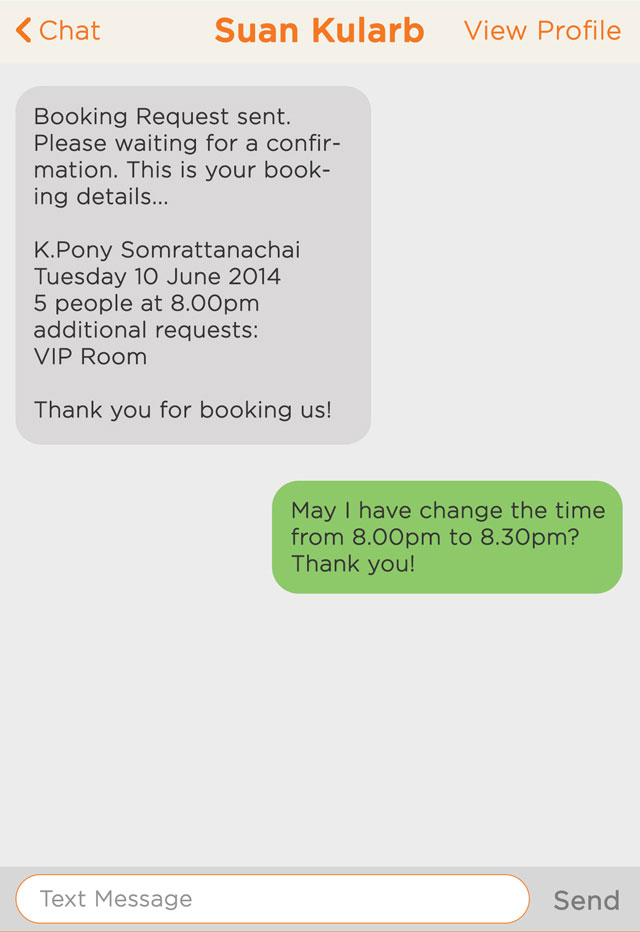
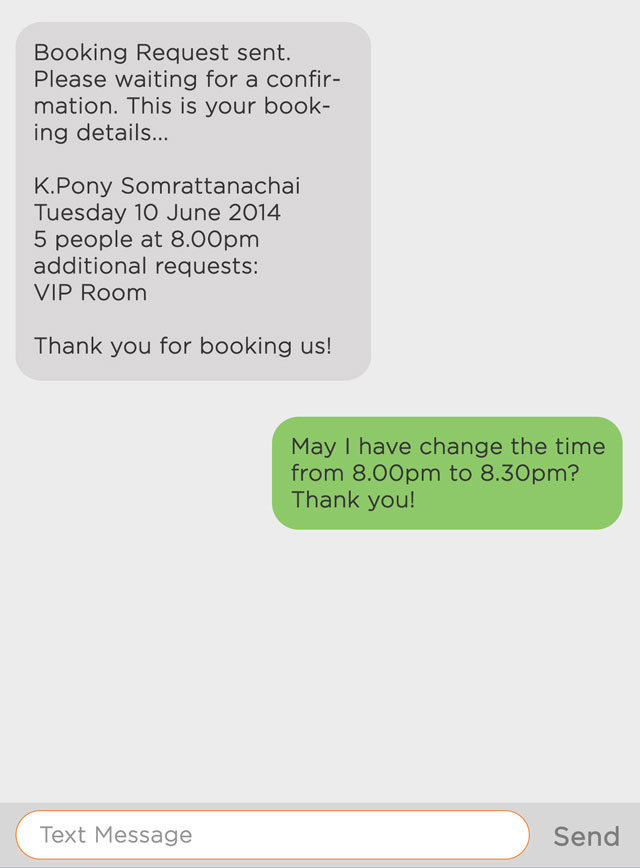
Update menu

diff --git a/MEAN/public/modules/core/controllers/menu.controller.js b/MEAN/public/modules/core/controllers/menu.controller.js
@@ -2,9 +2,8 @@
 
 
 angular.module('core').controller('MenuController', [
-    '$scope', '$interval', '$rootScope',
-    function($scope, $interval, $rootScope) {
-        var ons = $rootScope.ons || {};
+    '$scope', '$interval', '$state',
+    function($scope, $interval, $state) {
 
         $scope.profile = [];
         $scope.profile.name = 'Pony Somrattanach';
@@ -12,26 +11,24 @@ angular.module('core').controller('MenuController', [
         $scope.profile.favorites = 245;
 
         $scope.menus = [
-            { label: 'HOME', icon: 'fa-home', tabbar: 2 },
+            { label: 'HOME', icon: 'fa-home', state: 'main.tab.home' },
             { label: 'SEARCH', icon: 'fa-search', page: 'modules/home/views/home.client.view.html' },
             { label: 'MY BOOKING', icon: 'fa-gear', page: 'modules/home/views/home.client.view.html' },
-            { label: 'SCHEDULE', icon: 'fa-calendar', tabbar: 0 },
-            { label: 'CHAT', icon: 'fa-comments', tabbar: 1 },
-            { label: 'NOTIFICATIONS', icon: 'fa-exclamation-circle', tabbar: 3 },
+            { label: 'SCHEDULE', icon: 'fa-calendar', state: 'main.tab.schedule'},
+            { label: 'CHAT', icon: 'fa-comments', state: 'main.tab.chat' },
+            { label: 'NOTIFICATIONS', icon: 'fa-exclamation-circle', state: 'main.tab.notifications' },
             { label: 'MY FAVORITES', icon: 'fa-exclamation-circle', page: 'modules/home/views/home.client.view.html' },
-            { label: 'SETTINGS', icon: 'fa-gear', tabbar: 4 },
+            { label: 'SETTINGS', icon: 'fa-gear', state: 'main.tab.settings' },
             { label: 'ABOUT BOOKTIME', icon: 'fa-gear', page: 'modules/home/views/home.client.view.html', className: 'menu-about' },
             { label: 'SIGN OUT', icon: 'fa-gear', page: 'modules/home/views/home.client.view.html', className: 'menu-signout' }
         ];
 
         $scope.showDetail = function($index) {
-            //console.log(ons);
             var selectedMenu = $scope.menus[$index];
-            if (selectedMenu.tabbar != undefined)
-                ons.tabbar.setActiveTab(selectedMenu.tabbar);
+            if (selectedMenu.state != undefined)
+                $state.go(selectedMenu.state, null, {reload:true});
             else
                 alert(selectedMenu.label);
-            ons.slidingMenu.toggleMenu();
         };
 
         $scope.getClass = function($index) {
@@ -56,20 +53,3 @@ angular.module('core').controller('MenuController', [
         });
     }
 ]);
-//.directive('fadeBar', function ($timeout) {
-//    return {
-//        restrict: 'E',
-//        template: '<div class="fade-bar"></div>',
-//        replace: true,
-//        link: function($scope, $element, $attr) {
-//            // Run in the next scope digest
-//            $timeout(function() {
-//                // Watch for changes to the openRatio which is a value between 0 and 1 that says how "open" the side menu is
-//                $scope.$watch('sideMenuController.getOpenRatio()', function(ratio) {
-//                    // Set the transparency of the fade bar
-//                    $element[0].style.opacity = Math.abs(ratio);
-//                });
-//            });
-//        }
-//    };
-//});

diff --git a/MEAN/public/modules/core/views/menu.html b/MEAN/public/modules/core/views/menu.html
@@ -3,9 +3,9 @@
 <ion-side-menus>
     <fade-bar></fade-bar> 
     <ion-pane ion-side-menu-content>
-        <div class="mainbar">
-            <img src="res/screen/share/2x/02_mainpage_toolbar.jpg" style="height:auto;width: 100%;" />
-        </div>        
+<!--        <div class="mainbar">-->
+<!--            <img src="res/screen/share/2x/02_mainpage_toolbar.jpg" style="height:auto;width: 100%;" />-->
+<!--        </div>        -->
         <ion-nav-bar class="bar-stable">
             <ion-nav-back-button class="button-clear"><i class="icon ion-ios7-arrow-back"></i> Back</ion-nav-back-button>
         </ion-nav-bar>
